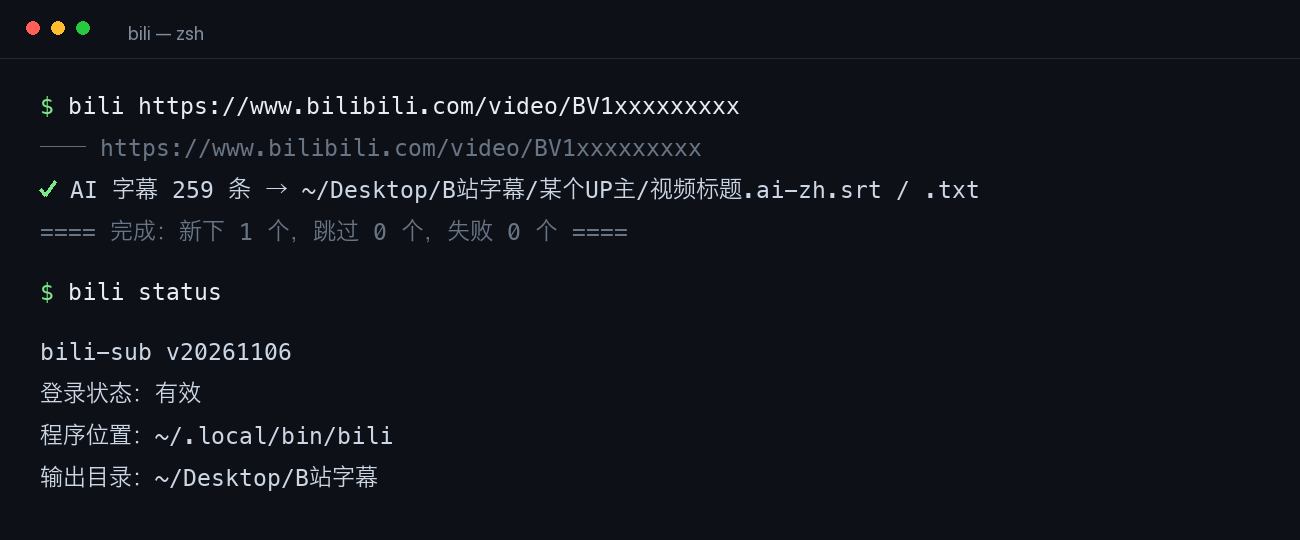
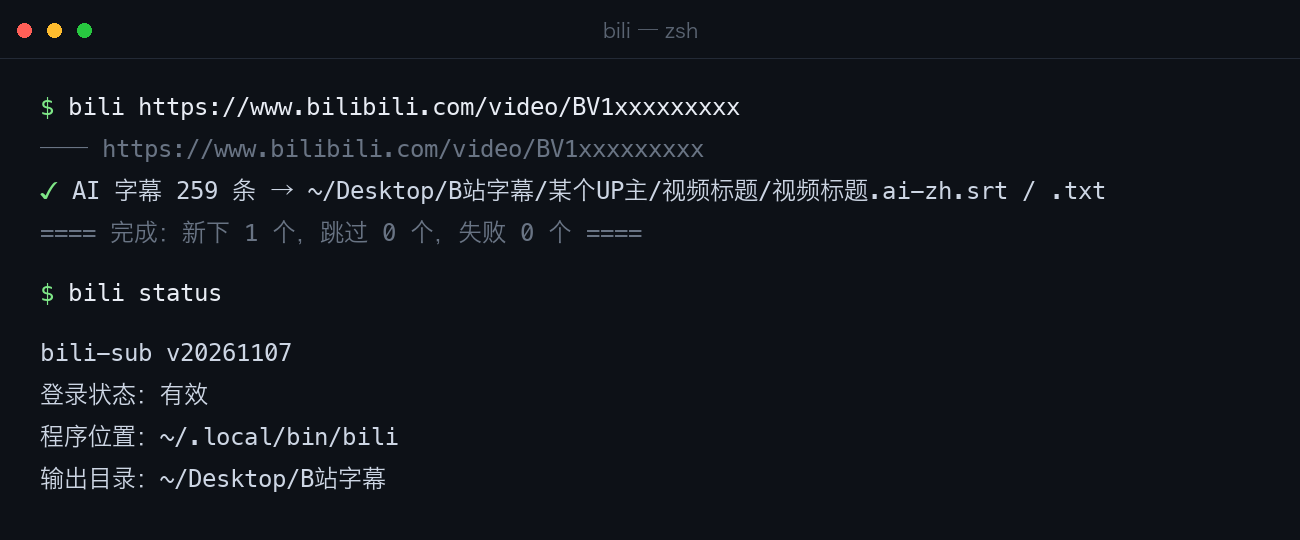
docs: 统一口径：帮助、status、README 和演示图都改成 UP主/视频 两层

diff --git a/README.md b/README.md
@@ -167,7 +167,7 @@ rm "$HOME/.local/bin/bili"         # 程序本体，就一个文件
 
 两个原因，都对号入座：
 
-1. **这个终端窗口是装之前开的**——PATH 只在开终端时读一次。关掉重开，或者在这个窗口跑 `source ~/.zshrc`（bash 用户是 `~/.bashrc`）。
+1. **这个终端窗口是装之前开的**——PATH 只在开终端时读一次。关掉重开，或者在这个窗口跑 `source ~/.zshrc`（macOS 的 bash 是 `source ~/.bash_profile`，Linux 的 bash 是 `source ~/.bashrc`）。
 2. **PATH 里有个旧的 bili 排在前面**——跑 `which -a bili` 看看，把不用的那个删掉。
 
 安装器装完会自己检查这两种情况，直接告诉你下一步敲什么。
